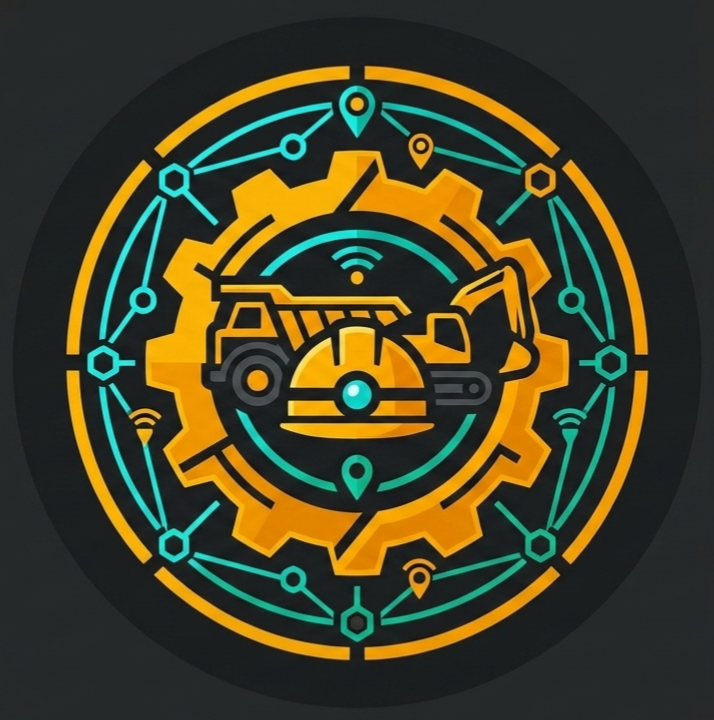
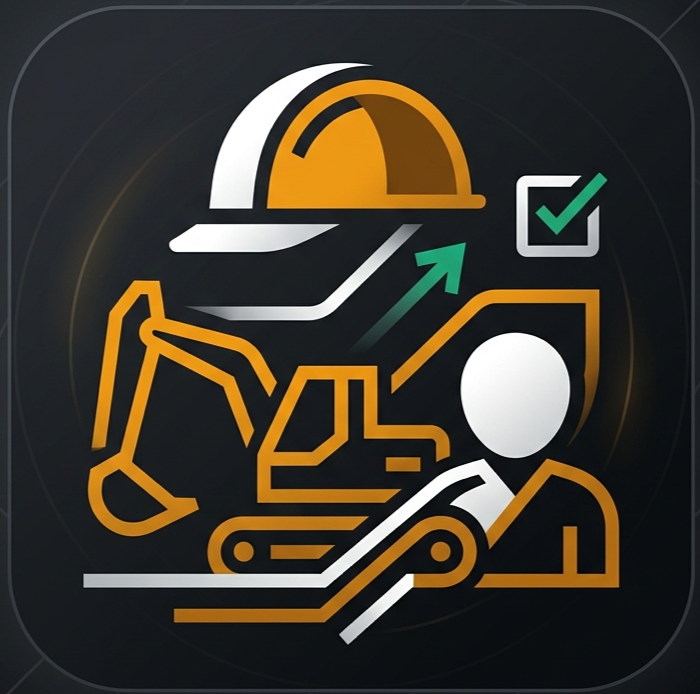
Add files via upload

diff --git a/index.html b/index.html
@@ -44,6 +44,79 @@
             background-color: #1e1e1e;
             color: #f3f4f6;
         }
+
+        /* High Contrast Outdoor Light Mode Styling */
+        body.light-theme {
+            background-color: #f3f4f6 !important;
+            color: #111827 !important;
+        }
+        body.light-theme .bg-cardBg {
+            background-color: #ffffff !important;
+            border-color: #d1d5db !important;
+            box-shadow: 0 4px 6px -1px rgba(0, 0, 0, 0.05) !important;
+        }
+        body.light-theme .bg-darkBg {
+            background-color: #e5e7eb !important;
+            border-color: #d1d5db !important;
+        }
+        body.light-theme .bg-darkBg\/40,
+        body.light-theme .bg-darkBg\/60 {
+            background-color: #f9fafb !important;
+            border-color: #e5e7eb !important;
+        }
+        body.light-theme .text-white {
+            color: #111827 !important;
+        }
+        body.light-theme .text-gray-200,
+        body.light-theme .text-gray-300 {
+            color: #1f2937 !important;
+        }
+        body.light-theme .text-gray-400 {
+            color: #4b5563 !important;
+        }
+        body.light-theme .text-gray-500 {
+            color: #6b7280 !important;
+        }
+        body.light-theme .border-gray-800,
+        body.light-theme .border-gray-700 {
+            border-color: #d1d5db !important;
+        }
+        body.light-theme .input-clean {
+            background-color: #ffffff !important;
+            border-color: #9ca3af !important;
+            color: #111827 !important;
+        }
+        body.light-theme .input-clean::placeholder {
+            color: #9ca3af !important;
+        }
+        body.light-theme input[type="date"]::-webkit-calendar-picker-indicator {
+            filter: invert(0) !important;
+        }
+        body.light-theme .bg-gray-900\/50 {
+            background-color: #e5e7eb !important;
+            border-color: #d1d5db !important;
+        }
+        body.light-theme .bg-gray-900 {
+            background-color: #d1d5db !important;
+        }
+        body.light-theme datalist {
+            background-color: #ffffff !important;
+            color: #111827 !important;
+        }
+        body.light-theme .hover\:bg-gray-800\/40:hover {
+            background-color: #e5e7eb !important;
+        }
+        body.light-theme .divide-gray-800 > :not([hidden]) ~ :not([hidden]) {
+            border-color: #d1d5db !important;
+        }
+        body.light-theme .bg-gray-800 {
+            background-color: #e5e7eb !important;
+            color: #374151 !important;
+            border-color: #d1d5db !important;
+        }
+        body.light-theme .bg-gray-800:hover {
+            background-color: #d1d5db !important;
+        }
     </style>
 </head>
 <body class="bg-darkBg text-gray-200 font-sans antialiased min-h-screen p-4 md:p-8">
@@ -66,9 +139,12 @@
                         <h1 class="text-2xl md:text-3xl font-bold text-white flex items-center"><i class="fa-solid fa-helmet-safety text-primary mr-3"></i>Check Unit & Operator</h1>
                         <p class="text-gray-400 text-sm mt-1">Sistem Terintegrasi Pemantauan Awal & Akhir Shift</p>
                     </div>
-                    <div class="mt-4 md:mt-0">
+                    <div class="mt-4 md:mt-0 flex flex-wrap gap-2">
+                        <button onclick="toggleTheme()" class="bg-gray-800 hover:bg-gray-700 text-gray-300 font-semibold px-4 py-2 rounded-xl text-xs transition-all border border-gray-700">
+                            <i class="fa-solid fa-sun mr-2"></i> Mode Layar (Terang/Gelap)
+                        </button>
                         <button onclick="resetSemuaData()" class="bg-gray-800 hover:bg-danger/20 hover:text-danger hover:border-danger text-gray-400 font-semibold px-4 py-2 rounded-xl text-xs transition-all border border-gray-700">
-                            <i class="fa-solid fa-trash-can mr-2"></i> Reset Semua Data Perangkat
+                            <i class="fa-solid fa-trash-can mr-2"></i> Reset Perangkat
                         </button>
                     </div>
                 </div>
@@ -121,11 +197,8 @@
             <div class="flex flex-col sm:flex-row justify-between items-start sm:items-center bg-gray-900/50 p-4 rounded-xl border border-gray-800 gap-4">
                 <p class="text-xs text-gray-400 flex-1"><i class="fa-solid fa-circle-info text-primary mr-1"></i> Daftarkan unit dan ceklis kehadiran operator di sini sebelum shift dimulai. Keterangan tiap kategori bisa diedit langsung.</p>
                 <div class="flex flex-wrap gap-2 w-full sm:w-auto">
-                    <button onclick="kirimKeWA()" class="flex-1 sm:flex-initial bg-[#25D366] hover:bg-green-600 text-white font-bold py-2 px-4 rounded-lg text-sm transition-all flex items-center justify-center shadow-lg border border-green-700">
-                        <i class="fa-brands fa-whatsapp text-lg mr-2"></i> Kirim ke WA
-                    </button>
-                    <button id="btn-sinkron" onclick="kirimKeGoogleSheets()" class="flex-1 sm:flex-initial bg-blue-600 hover:bg-blue-500 text-white font-bold py-2 px-4 rounded-lg text-sm transition-all flex items-center justify-center shadow-lg border border-blue-700">
-                        <i class="fa-solid fa-cloud-arrow-up text-lg mr-2"></i> Simpan ke Database
+                    <button onclick="kirimKeWA()" class="w-full sm:w-auto bg-[#25D366] hover:bg-green-600 text-white font-bold py-2 px-6 rounded-lg text-sm transition-all flex items-center justify-center shadow-lg border border-green-700">
+                        <i class="fa-brands fa-whatsapp text-lg mr-2"></i> Kirim ke WA (Awal)
                     </button>
                 </div>
             </div>
@@ -135,7 +208,7 @@
         <div id="page-akhir" class="hidden space-y-6">
             <div class="flex flex-col sm:flex-row justify-between items-start sm:items-center bg-gray-900/50 p-4 rounded-xl border border-gray-800 gap-4">
                 <p class="text-xs text-gray-400 flex-1"><i class="fa-solid fa-circle-info text-primary mr-1"></i> Tentukan status akhir unit saat shift selesai. Jika unit rusak, klik tombol <strong>BREAKDOWN</strong> dan isi keterangannya.</p>
-                <button onclick="kirimKeWAAkhir()" class="w-full sm:w-auto bg-[#25D366] hover:bg-green-600 text-white font-bold py-2 px-4 rounded-lg text-sm transition-all flex items-center justify-center shadow-lg border border-green-700">
+                <button onclick="kirimKeWAAkhir()" class="w-full sm:w-auto bg-[#25D366] hover:bg-green-600 text-white font-bold py-2 px-6 rounded-lg text-sm transition-all flex items-center justify-center shadow-lg border border-green-700">
                     <i class="fa-brands fa-whatsapp text-lg mr-2"></i> Kirim Report Akhir
                 </button>
             </div>
@@ -177,6 +250,16 @@
                         <tbody id="tabel-bd-body" class="divide-y divide-gray-800"></tbody>
                     </table>
                 </div>
+            </div>
+
+            <div class="bg-cardBg border border-gray-800 rounded-2xl p-6 shadow-lg flex flex-col sm:flex-row justify-between items-center gap-4 border-l-4 border-l-blue-500">
+                <div class="flex-1">
+                    <h3 class="text-base font-bold text-white flex items-center"><i class="fa-solid fa-cloud-arrow-up text-blue-500 mr-2"></i>Kunci & Simpan Database Pusat</h3>
+                    <p class="text-xs text-gray-400 mt-1">Pastikan Anda sudah membagikan laporan Awal Shift dan laporan Akhir Shift ke WhatsApp Group sebelum mengamankan data final ke Google Sheets.</p>
+                </div>
+                <button id="btn-sinkron" onclick="kirimKeGoogleSheets()" class="w-full sm:w-auto bg-blue-600 hover:bg-blue-500 text-white font-bold py-3 px-6 rounded-xl text-sm transition-all flex items-center justify-center shadow-lg border border-blue-700">
+                    <i class="fa-solid fa-cloud-arrow-up text-lg mr-2"></i> Simpan ke Database
+                </button>
             </div>
         </div>
     </div>
@@ -269,7 +352,6 @@
                 dataLapang = patenCategories.map((name, idx) => {
                     const existing = parsed.find(c => c.kategori === name);
                     if (existing) {
-                        // Pastikan property keterangan tidak undefined dari data lama
                         existing.keterangan = existing.keterangan !== undefined ? existing.keterangan : defaultData[idx].keterangan;
                         return existing;
                     }
@@ -317,7 +399,6 @@
             dataLapang.forEach((catData, catIdx) => {
                 const totalUnit = catData.unit.length;
                 const checkedUnit = catData.unit.filter(u => u.checked).length;
-                // Aman dari karakter kutip (" ") yang bisa merusak atribut HTML
                 const amanKeterangan = (catData.keterangan || '').replace(/"/g, '&quot;');
 
                 let cardHTML = `
@@ -387,7 +468,7 @@
 
                 catData.unit.forEach((item, unitIdx) => {
                     const isBD = item.statusAkhir === "BREAKDOWN";
-                    const amanKendala = (item.kendala || '').replace(/"/g, '&quot;'); // Aman dari error kutip
+                    const amanKendala = (item.kendala || '').replace(/"/g, '&quot;');
                     
                     cardHTML += `
                         <li class="bg-darkBg/60 p-3 rounded-xl border border-gray-800 flex flex-col gap-3">
@@ -492,7 +573,6 @@
                 }
             });
 
-            // Tambahan Data Manpower
             pesan += `*SPV* : ${spv}\n`;
             pesan += `*Pengawas* : ${pengawas}\n`;
             pesan += `*Checker* : ${checker}\n`;
@@ -535,7 +615,6 @@
                 }
             });
 
-            // Samakan data Manpower di Laporan Akhir Shift
             pesan += `*Terima Kasih*\n`;
 
             pesan = pesan.trim();
@@ -562,10 +641,24 @@
         function addUnit(catIdx) {
             const idInput = document.getElementById(`add-id-${catIdx}`);
             const opInput = document.getElementById(`add-op-${catIdx}`);
-            if (!idInput.value.trim()) return alert("Kode Unit wajib diisi!");
+            const codeInput = idInput.value.trim().toUpperCase();
+            if (!codeInput) return alert("Kode Unit wajib diisi!");
+
+            // Validasi duplikasi unit lintas kategori secara global
+            let isExist = false;
+            dataLapang.forEach(cat => {
+                if(cat.unit.some(u => u.id === codeInput)) {
+                    isExist = true;
+                }
+            });
+
+            if (isExist) {
+                alert(`Gagal! Kode Unit ${codeInput} sudah terdaftar sebelumnya dalam sistem.`);
+                return;
+            }
 
             dataLapang[catIdx].unit.push({
-                id: idInput.value.trim().toUpperCase(),
+                id: codeInput,
                 operator: opInput.value.trim() || "Unknown",
                 checked: false, statusAkhir: "READY", kendala: ""
             });
@@ -586,6 +679,73 @@
             }
         }
 
+        /* FUNGSI TOGGLE THEME (OUTDOOR LIGHT MODE) */
+        function initTheme() {
+            const savedTheme = localStorage.getItem('v4_theme') || 'dark';
+            if (savedTheme === 'light') {
+                document.body.classList.add('light-theme');
+            }
+        }
+
+        function toggleTheme() {
+            if (document.body.classList.contains('light-theme')) {
+                document.body.classList.remove('light-theme');
+                localStorage.setItem('v4_theme', 'dark');
+            } else {
+                document.body.classList.add('light-theme');
+                localStorage.setItem('v4_theme', 'light');
+            }
+        }
+
+        /* PANEL SINIKRONISASI & ANTRIAN OFFLINE CONTAINER INDICATOR */
+        function updateSyncIndicator() {
+            const pendingData = localStorage.getItem('v4_pending_sync');
+            let indicator = document.getElementById('offline-sync-banner');
+            
+            if (pendingData) {
+                if (!indicator) {
+                    const mainClockContainer = document.getElementById('live-clock').parentElement;
+                    mainClockContainer.insertAdjacentHTML('afterend', `
+                        <div id="offline-sync-banner" onclick="trySyncPendingData()" class="mt-3 cursor-pointer bg-amber-500/20 border border-amber-600 text-amber-500 p-3 rounded-xl flex items-center justify-between text-xs font-bold animate-pulse">
+                            <span><i class="fa-solid fa-triangle-exclamation mr-2"></i> Ada data tertunda belum masuk server pusat (Offline Queue). Klik untuk sinkron ulang!</span>
+                            <span class="underline uppercase tracking-wider text-[10px]">Sinkron Sekarang</span>
+                        </div>
+                    `);
+                }
+            } else {
+                if (indicator) indicator.remove();
+            }
+        }
+
+        function trySyncPendingData() {
+            const pendingData = localStorage.getItem('v4_pending_sync');
+            if (!pendingData) return;
+
+            if (!navigator.onLine) {
+                alert("Koneksi Internet belum terdeteksi. Silakan cari sinyal terlebih dahulu!");
+                return;
+            }
+
+            const parsedData = JSON.parse(pendingData);
+            const banner = document.getElementById('offline-sync-banner');
+            if (banner) banner.innerHTML = '<span><i class="fa-solid fa-spinner fa-spin mr-2"></i> Mengirim paksa data antrean pusat...</span>';
+
+            fetch(SCRIPT_URL, {
+                method: 'POST',
+                body: JSON.stringify(parsedData)
+            })
+            .then(res => res.text())
+            .then(result => {
+                alert("Luar Biasa! Data tunda luar jaringan berhasil terunggah sepenuhnya ke Google Sheets pusat.");
+                localStorage.removeItem('v4_pending_sync');
+                updateSyncIndicator();
+            })
+            .catch(err => {
+                alert("Proses sinkronisasi ulang gagal. Sistem mengamankan kembali data ke antrean perangkat.");
+                updateSyncIndicator();
+            });
+        }
+
         document.addEventListener('keypress', function(e) {
             if(e.key === 'Enter' && e.target.id.startsWith('add-')) {
                 const idx = e.target.id.split('-')[2];
@@ -597,7 +757,11 @@
             initDatalists();
             initClock();
             loadSavedData();
+            initTheme();
+            updateSyncIndicator();
         };
+
+        window.addEventListener('online', trySyncPendingData);
 
         // KONEKSI GOOGLE SHEETS API
         const SCRIPT_URL = "https://script.google.com/macros/s/AKfycbxC_gNvZyvg2HWvZ2-9VuIe22tbd1cfqsrU4_nE3Qa1upmCaviA9r8SbpHplSyFdHKPmQ/exec";
@@ -637,8 +801,18 @@
 
             const btnSubmit = document.getElementById('btn-sinkron');
             const originalText = btnSubmit.innerHTML;
-            btnSubmit.innerHTML = '<i class="fa-solid fa-spinner fa-spin mr-2"></i> Mengirim...';
+            btnSubmit.innerHTML = '<i class="fa-solid fa-spinner fa-spin mr-2"></i> Mengunci Server...';
             btnSubmit.disabled = true;
+
+            // Logika Deteksi Koneksi Offline untuk Melakukan Queuing Data
+            if (!navigator.onLine) {
+                localStorage.setItem('v4_pending_sync', JSON.stringify(dataUntukDikirim));
+                alert("Koneksi Internet Terputus! Data Anda aman disimpan dalam antrean offline lokal browser. Cari sinyal dan klik banner di atas untuk unggah.");
+                btnSubmit.innerHTML = originalText;
+                btnSubmit.disabled = false;
+                updateSyncIndicator();
+                return;
+            }
 
             fetch(SCRIPT_URL, {
                 method: 'POST',
@@ -647,14 +821,18 @@
             .then(response => response.text())
             .then(result => {
                 alert("Mantap! Data berhasil tersimpan ke sistem pusat (Google Sheets).");
+                localStorage.removeItem('v4_pending_sync');
                 btnSubmit.innerHTML = originalText;
                 btnSubmit.disabled = false;
+                updateSyncIndicator();
             })
             .catch(error => {
-                alert("Gagal mengirim data. Pastikan koneksi internet stabil.");
+                localStorage.setItem('v4_pending_sync', JSON.stringify(dataUntukDikirim));
+                alert("Gagal terhubung langsung. Data diamankan ke penyimpanan lokal antrean offline.");
                 console.error(error);
                 btnSubmit.innerHTML = originalText;
                 btnSubmit.disabled = false;
+                updateSyncIndicator();
             });
         }
     </script>

diff --git a/sw.js b/sw.js
@@ -1,18 +1,18 @@
-const CACHE_NAME = 'tracker-unit-v4'; // Jika nanti update tampilan besar, cukup ganti ini ke 'v5'
+const CACHE_NAME = 'tracker-unit-v4';
 const assets = [
   './',
   './index.html',
   './manifest.json'
 ];
 
-// Instalasi
+// Instalasi Assets Utama ke Dalam Cache Perangkat
 self.addEventListener('install', e => {
   e.waitUntil(
     caches.open(CACHE_NAME).then(cache => cache.addAll(assets))
   );
 });
 
-// Aktivasi & Hapus Cache Lama
+// Aktivasi & Pembersihan Cache Versi Lama Secara Otomatis
 self.addEventListener('activate', e => {
   e.waitUntil(
     caches.keys().then(keys => {
@@ -25,19 +25,25 @@ self.addEventListener('activate', e => {
   );
 });
 
-// STRATEGI: Network First (Cek ke server dulu, baru ke cache)
+// OPTIMALISASI: Penerapan Network First Selektif Hanya untuk Request GET
 self.addEventListener('fetch', e => {
+  // Cegah intersep request POST (Data Sinkronisasi Google Sheets Agar Tidak Masuk Cache)
+  if (e.request.method !== 'GET') {
+    return; 
+  }
+  
   e.respondWith(
     fetch(e.request)
       .then(networkResponse => {
-        // Jika internet ada, update cache dengan file terbaru
-        return caches.open(CACHE_NAME).then(cache => {
-          cache.put(e.request, networkResponse.clone());
-          return networkResponse;
-        });
+        // Ambil data terbaru dari server jika online, lalu simpan salinannya ke cache
+        if (networkResponse && networkResponse.status === 200) {
+          const cacheCopy = networkResponse.clone();
+          caches.open(CACHE_NAME).then(cache => cache.put(e.request, cacheCopy));
+        }
+        return networkResponse;
       })
       .catch(() => {
-        // Jika offline, ambil dari cache
+        // Jika sedang offline (masuk area tanpa sinyal), gunakan cadangan cache lokal
         return caches.match(e.request);
       })
   );